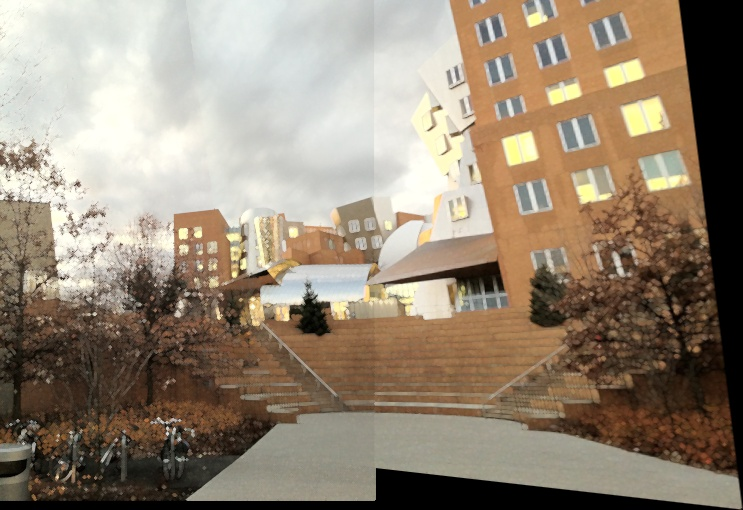
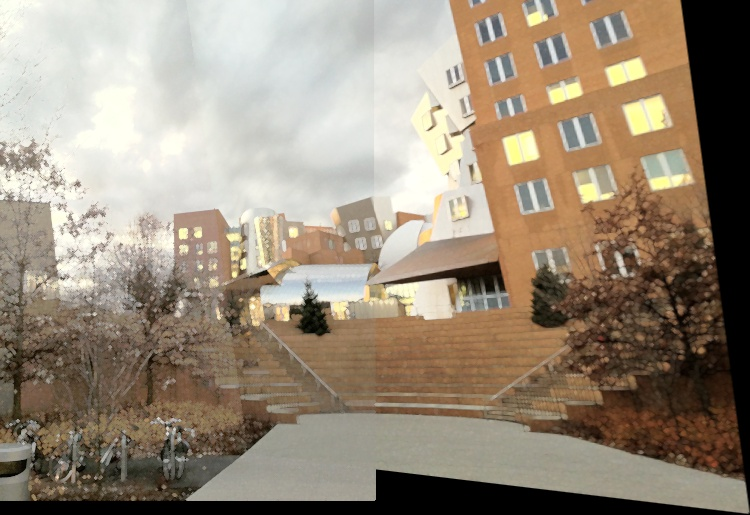
histogram matching

Changed region(s): [[0.0, 0.0, 0.9906, 1.0], [0.8358, 0.9706, 1.0, 1.0], [0.6501, 0.9412, 0.8358, 0.9706]]

diff --git a/main.py b/main.py
@@ -1,4 +1,5 @@
 import cv2
+from skimage import exposure
 import numpy as np
 from images import Image
 from typing import List
@@ -8,10 +9,9 @@ import imageio
 from matching import MultiImageMatches, PairMatch, build_homographies, find_connected_components
 from rendering import multi_band_blending, set_gain_compensations, simple_blending,brute_force_blend
 
-
 def hist_match(source, template):
     """
-    Adjust the pixel values of a grayscale image such that its histogram
+    Adjust the pixel values such that its histogram
     matches that of a target image
 
     Arguments:
@@ -51,23 +51,13 @@ def hist_match(source, template):
 
     return interp_t_values[bin_idx].reshape(oldshape)
 
-# read images and transform them to grayscale
 
-# img1 = imageio.imread('/home/rushali/CV702_Assignment/Project/image pairs_02_01.png')
-# img2 = imageio.imread('/home/rushali/CV702_Assignment/Project/image pairs_02_02.png')
-
-# source = img1
-# template = img2
-
-# matched = hist_match(source, template)
-# img2 = matched.astype('uint8')
-
-# img1 = img1[:,:,:3]
-# img2 = img2[:,:,:3]
-
+#left image
 image1 = Image('/home/rushali/CV702_Assignment/Project/image pairs_02_02.png')
+#right image
 image2 = Image('/home/rushali/CV702_Assignment/Project/image pairs_02_01.png')
 
+image1.image = hist_match(image1.image,image2.image).astype('uint8')
 
 images = [image1,image2]
 
@@ -81,10 +71,6 @@ for image in images:
 
 matcher = MultiImageMatches(images)
 pair_match = matcher.get_pair_matches()
-
-
-#plt.imshow(pair_match.image_a.image)
-#plt.show()
 
 
 build_homographies(pair_match)
@@ -109,5 +95,5 @@ cv2.imwrite(os.path.join("./", "results", f"pano_brute_force.jpg"), result_brute
 result_simple_blend = simple_blending(images,pair_match)
 cv2.imwrite(os.path.join("./", "results", f"pano_simple_blend.jpg"), result_simple_blend)
 
-result_multi_band_blend = multi_band_blending(images, num_bands=10, sigma=0.1)
+result_multi_band_blend = multi_band_blending(images, num_bands=4, sigma=0.1)
 cv2.imwrite(os.path.join("./", "results", f"pano_multi_band_blend.jpg"), result_multi_band_blend)

diff --git a/rendering/simple_blending.py b/rendering/simple_blending.py
@@ -8,7 +8,7 @@ import matplotlib.pyplot as plt
 from images import Image
 from rendering.utils import get_new_parameters, single_weights_matrix
 
-def brute_force_blend(images,pair_match) :
+def brute_force_blend(images,pair_match,wt1=0.5,wt2=0.5) :
     """
     Brute force
     """
@@ -33,7 +33,7 @@ def brute_force_blend(images,pair_match) :
     left = result_left*~temp.astype(bool)
     right = result*~temp.astype(bool)
 
-    ans = (left + (0.5* loverlap + 0.5 * roverlap) + right).astype('uint8')
+    ans = (left + (wt1* loverlap + wt2 * roverlap) + right).astype('uint8')
     kernel = cv2.getStructuringElement(cv2.MORPH_ELLIPSE,(3,3))
     ans = cv2.dilate(ans,kernel,iterations = 1)
 

diff --git a/images/image.py b/images/image.py
@@ -43,6 +43,6 @@ class Image:
         elif method == 'orb':
             descriptor = cv2.ORB_create()
 
-        keypoints, features = descriptor.detectAndCompute(self.image, None)
+        keypoints, features = descriptor.detectAndCompute(cv2.cvtColor(self.image, cv2.COLOR_BGR2GRAY), None)
         self.keypoints = keypoints
         self.features = features
